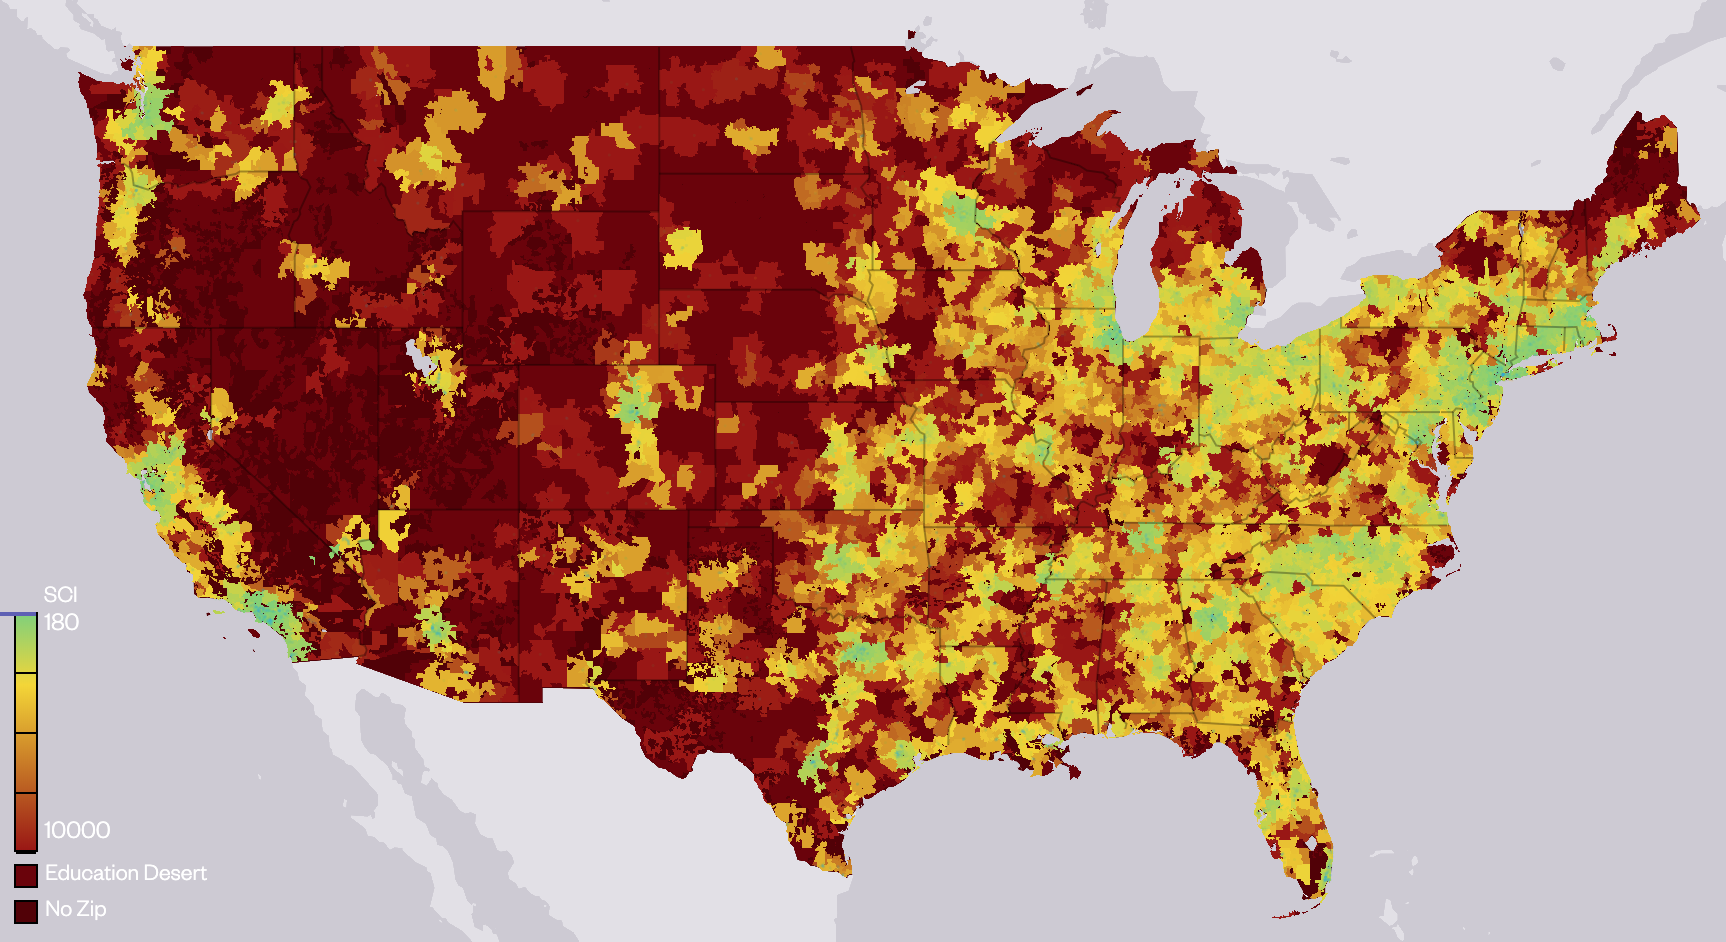
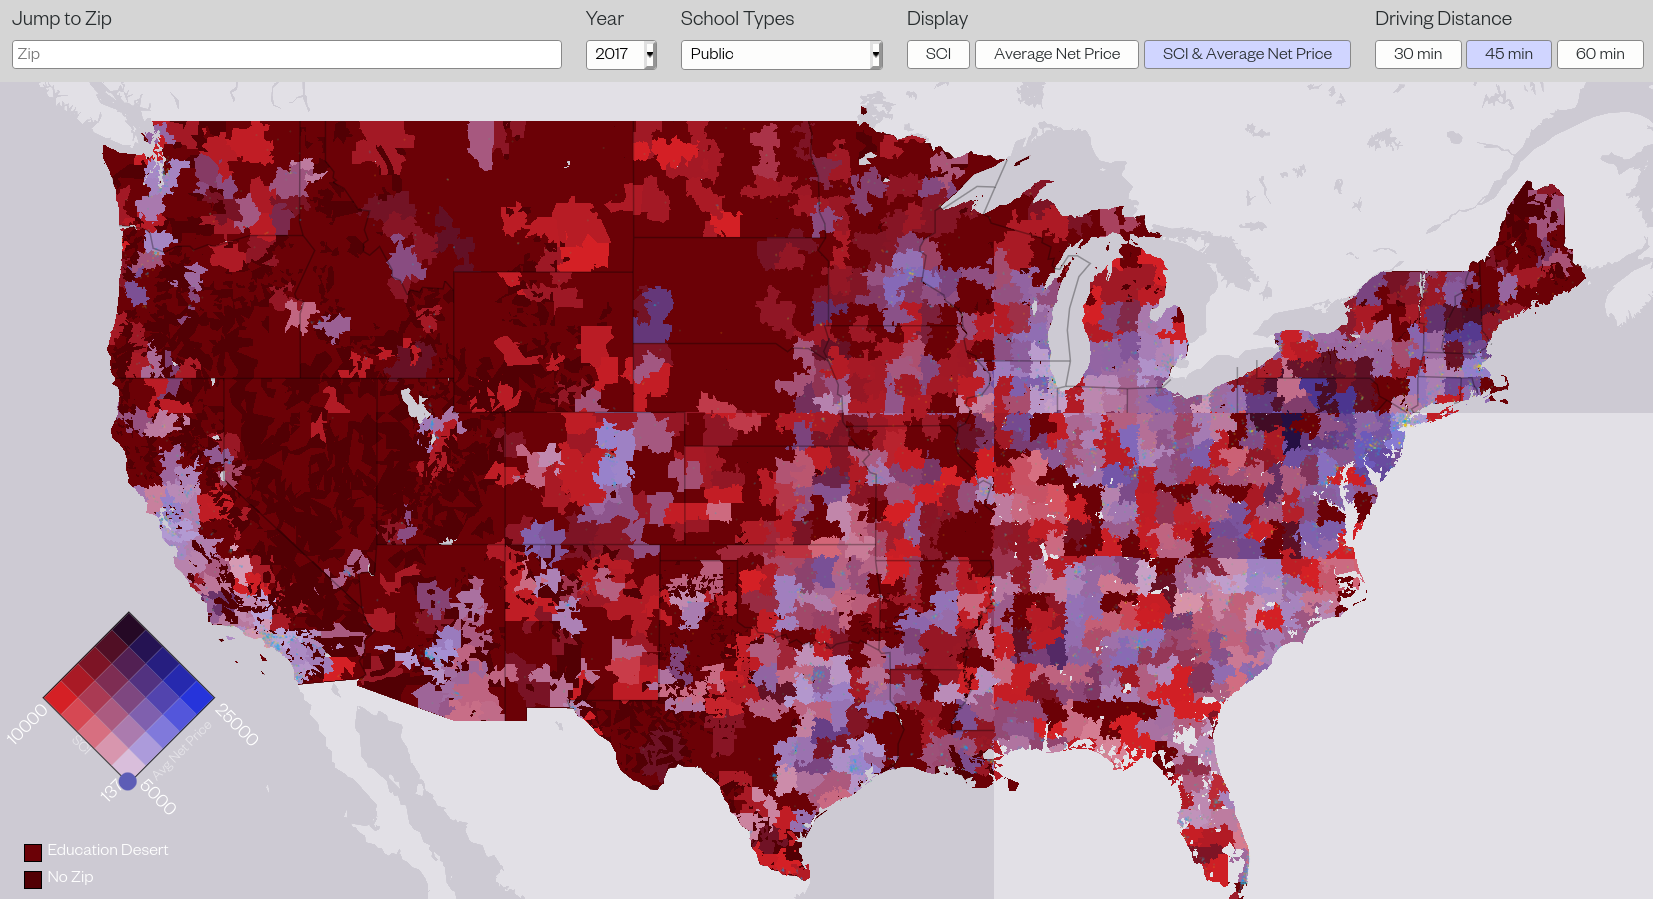
updated card

diff --git a/index.html b/index.html
@@ -29,12 +29,12 @@
   <meta property="og:type" content="website">
   <meta property="og:description" content="Mapping access and inequality in the US higher education system.">
   <meta property="og:title" content="The Geography and Price of Higher Education Post-2008 | Jain Family Institute">
-  <meta property="og:image" content="https://hef.jfiresearch.org/geography-of-higher-education/assets/card.png">
+  <meta property="og:image" content="http://hef.jfiresearch.org/post-2008-geography-of-higher-education/assets/card.png">
   <meta name="twitter:card" content="summary_large_image">
   <meta name="twitter:title" content="The Geography and Price of Higher Education Post-2008 | Jain Family Institute">
   <meta name="twitter:description" content="Mapping access and inequality in the US higher education system.">
-  <meta name="twitter:image" content="https://hef.jfiresearch.org/geography-of-higher-education/assets/card.png">
-  <meta name="twitter:image:alt" content="Map of school concentration in the United States">
+  <meta name="twitter:image" content="http://hef.jfiresearch.org/post-2008-geography-of-higher-education/assets/card.png">
+  <meta name="twitter:image:alt" content="Map of school concentration and net prices in the United States">
   <meta name="twitter:creator" content="@jainfamilyinst">
   <meta name="twitter:site" content="@jainfamilyinst">
 
